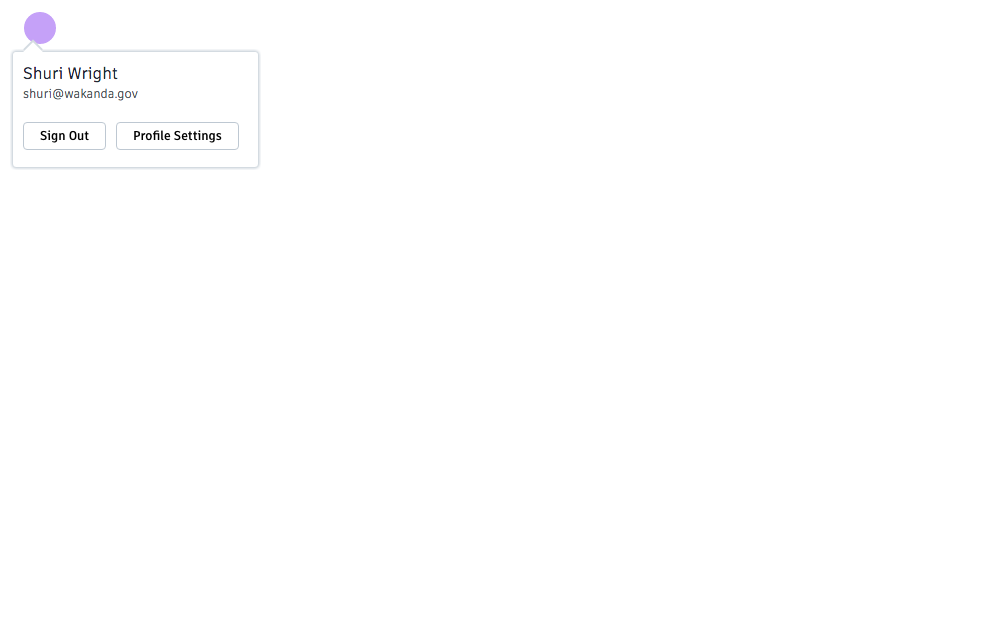
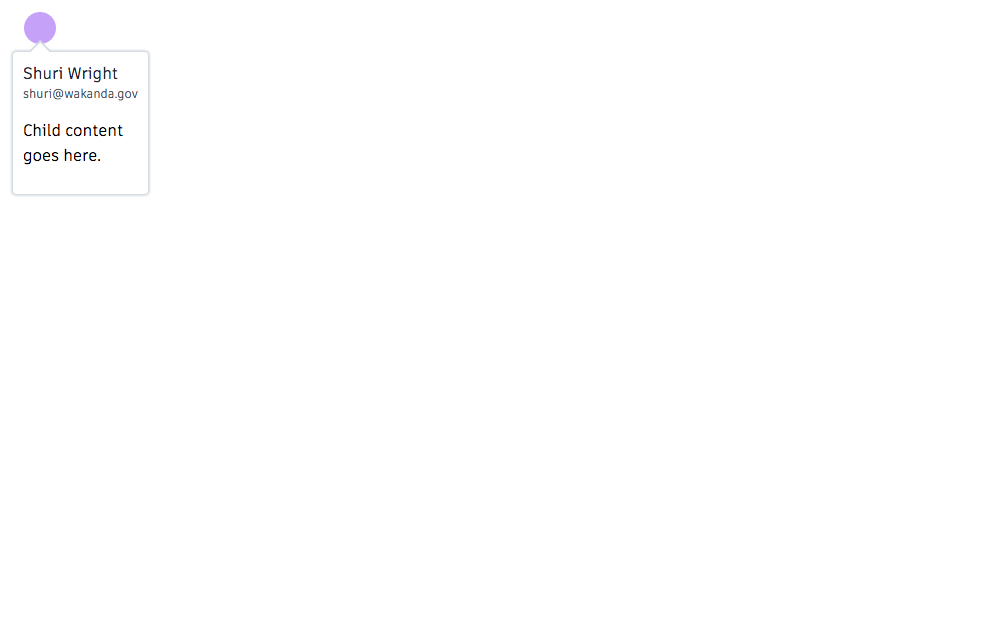
wip

diff --git a/packages/profile-flyout/src/__gemini__/ProfileFlyoutPresenter.stories-test.js b/packages/profile-flyout/src/__gemini__/ProfileFlyoutPresenter.stories-test.js
@@ -1,32 +1,12 @@
 import React from "react";
 import { storiesOf } from "@storybook/react";
-import Button from "@hig/button";
 import avatarImagePath from "@hig/storybook/storybook-support/fixtures/avatar/chris-reynolds.png";
 import ProfileFlyoutPresenter from "../presenters/ProfileFlyoutPresenter";
 import ProfileContent from "../presenters/ProfileContent";
 import "./ProfileFlyoutPresenter.stories-test.scss";
 
 function renderChildren() {
-  return (
-    <div className="hig__profile-flyout__content__links">
-      <div className={"hig__profile-flyout__content__link"}>
-        <Button
-          title={"Sign Out"}
-          type={"secondary"}
-          link={"https://www.autodesk.com/"}
-          size={"small"}
-        />
-      </div>
-      <div className={"hig__profile-flyout__content__link"}>
-        <Button
-          title={"Profile Settings"}
-          type={"secondary"}
-          link={"https://www.autodesk.com/"}
-          size={"small"}
-        />
-      </div>
-    </div>
-  );
+  return <p>Child content goes here.</p>;
 }
 
 function renderProfileContent() {

diff --git a/packages/profile-flyout/src/__stories__/stories.js b/packages/profile-flyout/src/__stories__/stories.js
@@ -1,29 +1,9 @@
 import React from "react";
-import Button from "@hig/button";
 import avatarImagePath from "@hig/storybook/storybook-support/fixtures/avatar/chris-reynolds.png";
 import ProfileContent from "../presenters/ProfileContent";
 
 function renderChildren() {
-  return (
-    <div className="hig__profile-flyout__content__links">
-      <div className={"hig__profile-flyout__content__link"}>
-        <Button
-          title={"Sign Out"}
-          type={"secondary"}
-          link={"https://www.autodesk.com/"}
-          size={"small"}
-        />
-      </div>
-      <div className={"hig__profile-flyout__content__link"}>
-        <Button
-          title={"Profile Settings"}
-          type={"secondary"}
-          link={"https://www.autodesk.com/"}
-          size={"small"}
-        />
-      </div>
-    </div>
-  );
+  return <p>Child content can go here.</p>;
 }
 
 function renderProfileContent() {

diff --git a/packages/profile-flyout/src/presenters/ProfileContent.scss b/packages/profile-flyout/src/presenters/ProfileContent.scss
@@ -25,20 +25,4 @@
     line-height: 16px;
     font-size: 12px;
   }
-
-  &__links {
-    display: flex;
-    flex-wrap: wrap;
-    margin-top: 10px;
-    min-width: 225px;
-  }
-
-  &__link {
-    margin-top: 10px;
-    margin-right: 10px;
-
-    &:last-child {
-      margin-right: unset;
-    }
-  }
 }
